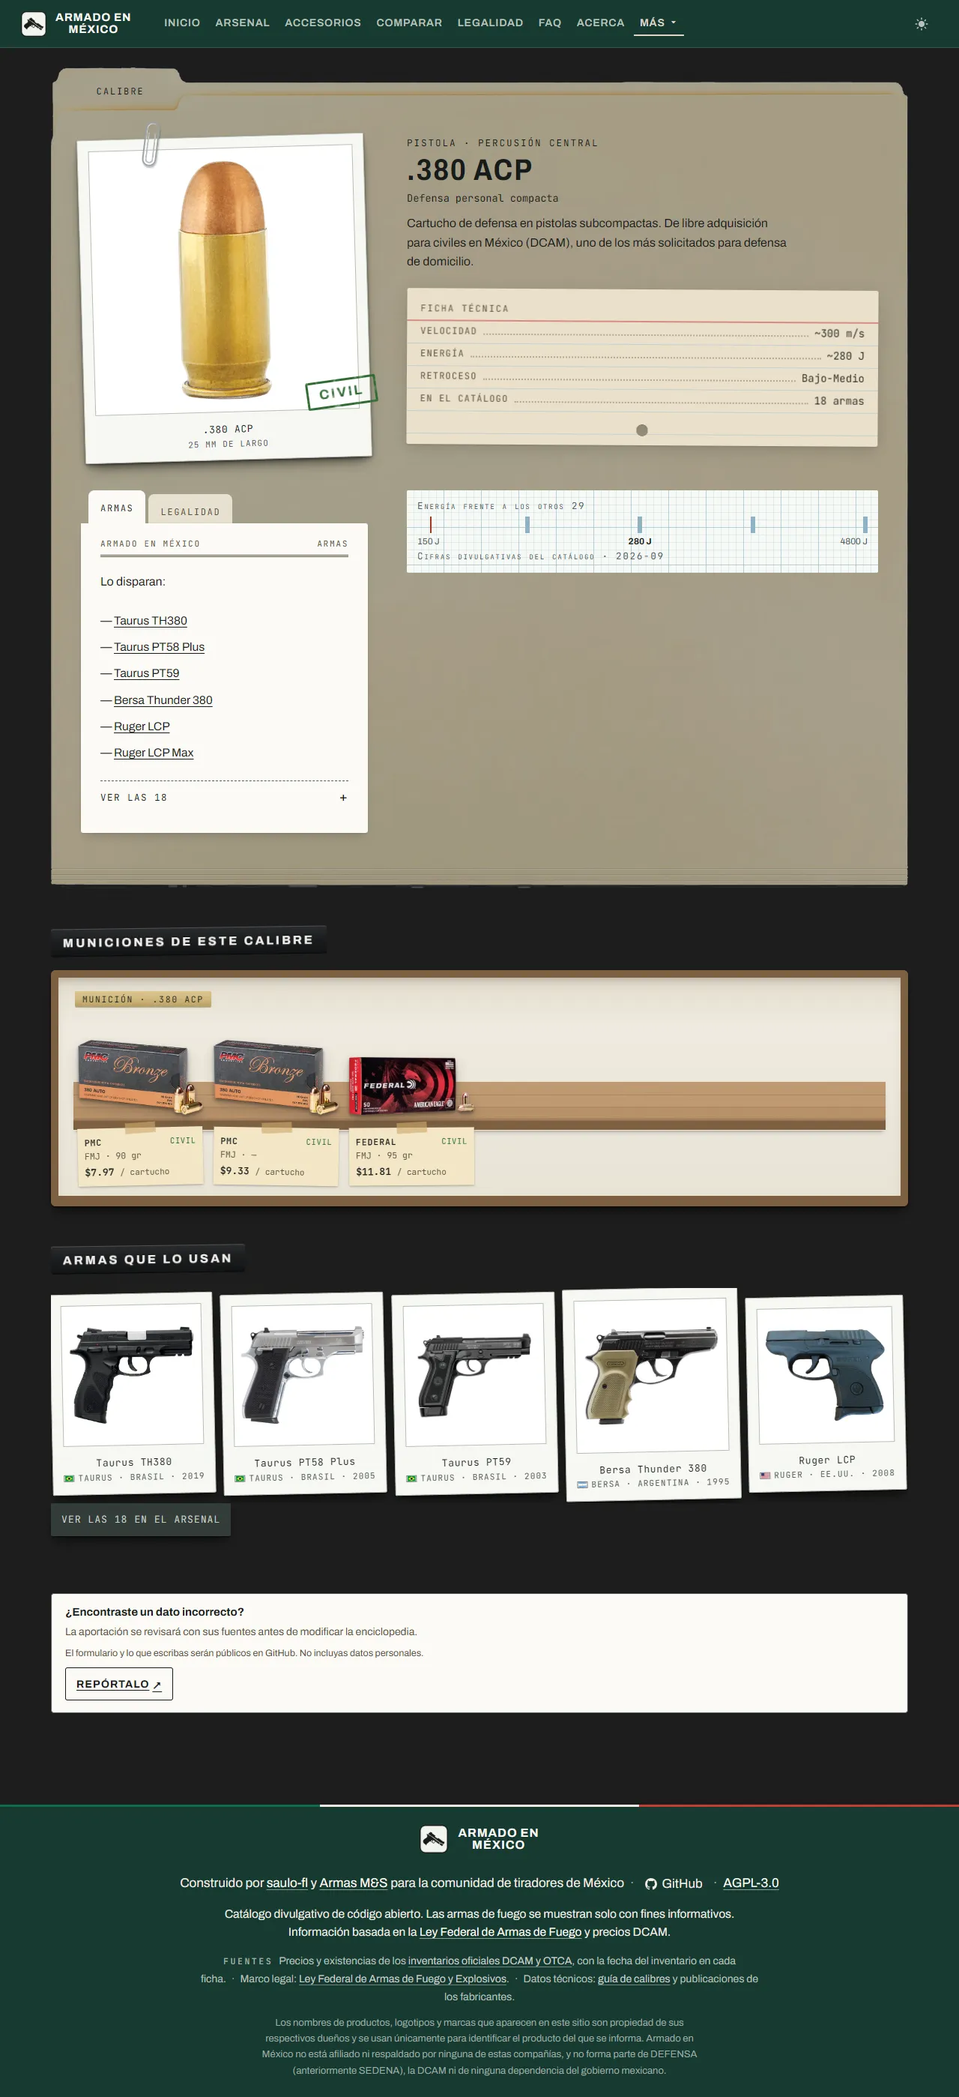
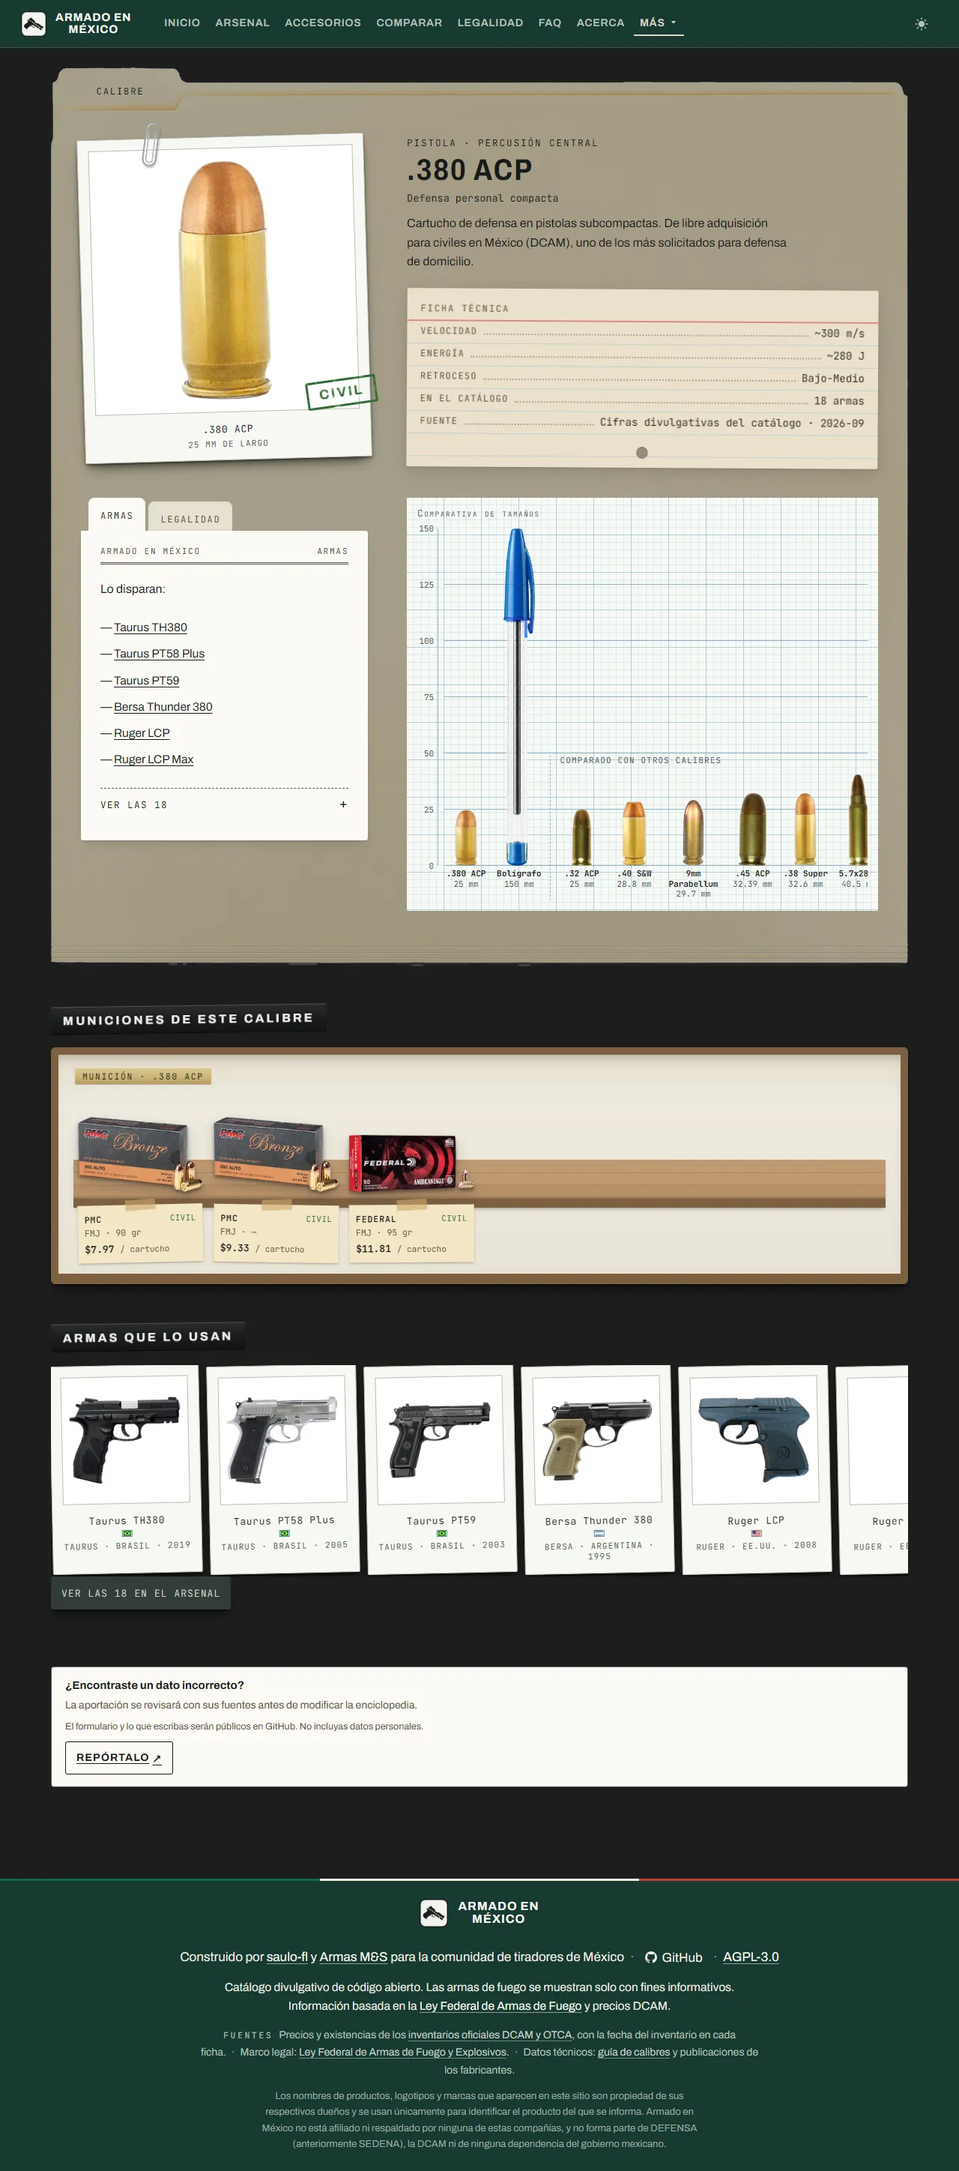
feat(calibres): comparativa de tamaños con un bolígrafo de 15 cm (correcciones de Penpot)
Correcciones de Saulo en Penpot («11 Ficha de calibre», hilos #14-#17):

- El papel milimétrico deja la regla de energía («no se entiende bien») y
  pasa a una comparativa de tamaños: eje Y en mm, el cartucho a escala real
  y un bolígrafo de 15 cm (generado sin marca, aprobado por Saulo). También
  en las escopetas.
- En escritorio llena la columna derecha y suma «Comparado con otros
  calibres»: los de su rama (carabina con rifle); el .22 LR con 9mm
  Parabellum, .38 Special y .308 Winchester; el .22 WMR con el .22 LR
  (amxComparadosDe, con pruebas).
- La fuente de las cifras pasa a un renglón al pie de la ficha técnica.
- Polaroids de «Armas que lo usan» del mismo tamaño y alineadas.

Se retiran ReglaComparativa y su CSS (menos .amx-regla y .amx-regla-cursor,
que también usa el filtro de precio). Capturas de Penpot al día.

Verificado: sonda de 30 fichas × 3 vistas sin fallos (escala ±1 px, mismo
cero, polaroids iguales, contraste mínimo 5.92:1); npm test 201/202 (el
fallo es el de _redirects en CRLF).

diff --git a/src/styles/estilo.css b/src/styles/estilo.css
@@ -1757,8 +1757,7 @@
 
 /* LA FICHA DE CALIBRE (27-sep-2026, DESIGN.md §5.12): el mismo folder sin talón
    ni tarjeta de almacén. Desde 1024, copia | cabecera y ficha; debajo, hojas |
-   milimétrico. Las escopetas no llevan milimétrico y sus hojas se quedan en su
-   columna (Saulo). */
+   milimétrico. Las hojas de las escopetas también se quedan en su columna (Saulo). */
 @media (min-width: 1024px) {
   .amx-v2 .amx-carpeta--calibre .amx-carpeta-grid {
     grid-template-areas:
@@ -1776,18 +1775,55 @@
 .amx-v2 .amx-carpeta-uso { margin-top: 6px; font-family: var(--mono); font-size: 13.5px; color: var(--manila-tinta); }
 .amx-v2 .amx-carpeta-alias { margin-top: 4px; font-size: 14px; color: var(--manila-tinta-2); }
 .amx-v2 .amx-carpeta-art { font-family: var(--mono); font-size: 12.5px; letter-spacing: .06em; color: var(--oficio-tinta-2); }
-/* La regla de energía, sobre el milimétrico: tintas del papel, que no siguen al
-   tema. Acotado a .amx-milimetrico porque .amx-regla la comparte el filtro de precio. */
-.amx-v2 .amx-milimetrico .amx-regla-titulo,
-.amx-v2 .amx-milimetrico .amx-regla-pies,
-.amx-v2 .amx-milimetrico .amx-regla-fuente { color: var(--milimetrico-tinta-2); }
-.amx-v2 .amx-milimetrico .amx-regla-pies b { color: var(--manila-tinta); }
-.amx-v2 .amx-milimetrico .amx-regla-pista {
-  background: repeating-linear-gradient(90deg, transparent, transparent 24%,
-    var(--milimetrico-linea) 24%, var(--milimetrico-linea) 25%);
+/* LA COMPARATIVA DE TAMAÑOS (Saulo en Penpot, 27-sep-2026): sustituye a la regla de
+   energía. El cartucho y un bolígrafo de 15 cm sobre un eje en milímetros: `--mm` son
+   los píxeles de un milímetro (2 en móvil, 3 en escritorio) y `--pie` el alto fijo de
+   los pies, para que todas las fotos se apoyen en el cero. En escritorio llena la
+   columna derecha. Tintas del milimétrico: el papel no sigue al tema. */
+.amx-v2 .amx-carpeta--calibre .amx-carpeta-historial { align-self: stretch; }
+.amx-v2 .amx-carpeta--calibre .amx-milimetrico { height: 100%; box-sizing: border-box; }
+.amx-v2 .amx-tamanos { --pie: 46px; }
+.amx-v2 .amx-tamanos-titulo {
+  margin-bottom: var(--e3);
+  font-family: var(--mono); font-size: 12.5px; letter-spacing: .14em; font-variant: small-caps;
+  color: var(--milimetrico-tinta-2);
 }
-.amx-v2 .amx-milimetrico .amx-regla-cursor { background: var(--sello-restr); }
-.amx-v2 .amx-milimetrico .amx-regla { height: auto; }
+.amx-v2 .amx-tamanos-lienzo { display: flex; align-items: flex-end; gap: 8px; }
+.amx-v2 .amx-tamanos-eje {
+  position: relative; flex: none; width: 28px;
+  height: calc(150 * var(--mm)); margin-bottom: var(--pie);
+  border-right: 1px solid var(--milimetrico-linea);
+  font-family: var(--mono); font-size: 11px; color: var(--milimetrico-tinta-2);
+}
+.amx-v2 .amx-tamanos-eje span { position: absolute; right: 5px; transform: translateY(50%); }
+.amx-v2 .amx-tamanos-fila {
+  flex: 1; min-width: 0; overflow-x: auto;
+  display: flex; align-items: flex-end; gap: 12px;
+  background-image: repeating-linear-gradient(to top, var(--milimetrico-linea) 0 1px, transparent 1px calc(25 * var(--mm)));
+  background-size: 100% calc(150 * var(--mm) + 1px);
+  background-position: left 0 bottom var(--pie);
+  background-repeat: no-repeat;
+}
+.amx-v2 .amx-tamanos-pieza { flex: none; margin: 0; display: flex; flex-direction: column; align-items: center; min-width: 58px; }
+.amx-v2 .amx-tamanos-pieza img { display: block; width: auto; }
+.amx-v2 .amx-tamanos-pieza figcaption {
+  height: var(--pie); max-width: 76px; padding-top: 4px; box-sizing: border-box; text-align: center;
+  font-family: var(--mono); font-size: 11px; line-height: 1.25; color: var(--milimetrico-tinta-2);
+}
+.amx-v2 .amx-tamanos-pieza figcaption b { display: block; font-weight: 700; color: var(--manila-tinta); }
+.amx-v2 .amx-tamanos-otros {
+  flex: none; display: flex; flex-direction: column; gap: var(--e3);
+  padding-left: 12px; border-left: 1px dashed var(--milimetrico-linea);
+}
+.amx-v2 .amx-tamanos-otros-tit {
+  font-family: var(--mono); font-size: 11px; letter-spacing: .1em; text-transform: uppercase;
+  color: var(--milimetrico-tinta-2);
+}
+.amx-v2 .amx-tamanos-otros-fila { display: flex; align-items: flex-end; gap: 12px; }
+/* «Armas que lo usan»: todas las copias del mismo ancho y alto, alineadas; el giro de
+   siempre (-1.2°) queda dentro de los ±2° que admite Saulo (27-sep-2026). */
+.amx-v2 .amx-calficha-arma { width: 200px; align-self: stretch; }
+.amx-v2 .amx-calficha-arma .amx-polaroid { height: 100%; box-sizing: border-box; }
 
 .amx-v2 .amx-carpeta-cab h1 {
   margin: 0;
@@ -5794,30 +5830,11 @@
   color: var(--sello-civil);
 }
 
-/* ── Regla comparativa — regla graduada que enseña dónde cae un calibre ── */
+/* ── Resto de la regla comparativa de calibres (retirada el 27-sep-2026): `.amx-regla` y
+   `.amx-regla-cursor` también las usa el filtro de precio (ReglaPrecio), así que se quedan. ── */
 
 .amx-v2 .amx-regla {
   font-variant-numeric: tabular-nums;
-}
-.amx-v2 .amx-regla-titulo {
-  font-family: var(--mono);
-  font-size: 12.5px;
-  font-variant-numeric: tabular-nums;
-  font-variant: small-caps;
-  letter-spacing: 0.14em;
-  color: var(--carton-tinta-2);
-  margin-bottom: 6px;
-}
-.amx-v2 .amx-regla-pista {
-  height: 22px;
-  position: relative;
-  background: repeating-linear-gradient(90deg,
-    transparent,
-    transparent 24%,
-    var(--hair) 24%,
-    var(--hair) 25%
-  );
-  border: 0;
 }
 .amx-v2 .amx-regla-cursor {
   position: absolute;
@@ -5826,25 +5843,6 @@
   width: 2px;
   height: 22px;
   background: var(--acento);
-}
-.amx-v2 .amx-regla-pies {
-  display: flex;
-  justify-content: space-between;
-  font-variant-numeric: tabular-nums;
-  font-size: 12px;
-  color: var(--carton-tinta-2);
-  margin-top: 4px;
-}
-.amx-v2 .amx-regla-pies b {
-  color: var(--tinta);
-}
-.amx-v2 .amx-regla-fuente {
-  font-family: var(--mono);
-  font-size: 12.5px;
-  font-variant: small-caps;
-  letter-spacing: 0.14em;
-  color: var(--carton-tinta-2);
-  margin-top: 4px;
 }
 
 /* ══════════════════════════════════════════════════════════════════════════

diff --git a/src/screens/screens-3.jsx b/src/screens/screens-3.jsx
@@ -163,6 +163,50 @@ const CARTUCHO_MAX_MM = 84.8;          // .30-06 / .270 / 7mm Rem / .300 WM
 const CARTUCHO_HOME_MAXH = 120;
 
 // ═══════════════════════════════════════════════════════════════════════
+// COMPARATIVA DE TAMAÑOS — el papel milimétrico de la ficha de calibre
+// Sustituye a la regla de energía (Saulo en Penpot, 27-sep-2026): el cartucho a
+// su tamaño real sobre un eje en milímetros, junto a un bolígrafo de 15 cm que
+// todo el mundo conoce. En escritorio se suman los calibres de su rama
+// (amxComparadosDe). `mmPx` son los píxeles de un milímetro. Las fotos vienen
+// recortadas al borde (margen < 2 %): su alto es el largo real del cartucho.
+// ═══════════════════════════════════════════════════════════════════════
+const BOLIGRAFO = { id: 'Bolígrafo', mm: 150, foto: 'imagenes/boligrafo-15cm.webp' };
+const MARCAS_MM = [0, 25, 50, 75, 100, 125, 150];
+
+function TablaTamanos({ cal, comparados, mmPx }) {
+  const pieza = (p, clase) => (
+    <figure key={p.id} className={'amx-tamanos-pieza' + (clase ? ' ' + clase : '')}>
+      <img src={p.foto} alt="" style={{ height: p.mm * mmPx }} loading="lazy" />
+      <figcaption><b>{p.id}</b>{p.mm} mm</figcaption>
+    </figure>
+  );
+  const describe = (c) => c.id + ', ' + c.mm + ' mm';
+  const etiqueta = 'Comparativa de tamaños: ' + describe(cal) + '; bolígrafo, 150 mm'
+    + (comparados.length ? '. Otros calibres de su rama: ' + comparados.map(describe).join('; ') : '') + '.';
+  return (
+    <div className="amx-tamanos" style={{ '--mm': mmPx + 'px' }} role="img" aria-label={etiqueta}>
+      <div className="amx-tamanos-titulo">Comparativa de tamaños</div>
+      <div className="amx-tamanos-lienzo">
+        <div className="amx-tamanos-eje" aria-hidden="true">
+          {MARCAS_MM.map((m) => <span key={m} style={{ bottom: m * mmPx }}>{m}</span>)}
+        </div>
+        <div className="amx-tamanos-fila">
+          {pieza({ id: cal.id, mm: cal.mm, foto: cal.cartucho }, 'es-ficha')}
+          {pieza(BOLIGRAFO)}
+          {comparados.length > 0 &&
+            <div className="amx-tamanos-otros">
+              <div className="amx-tamanos-otros-tit">Comparado con otros calibres</div>
+              <div className="amx-tamanos-otros-fila">
+                {comparados.map((c) => pieza({ id: c.id, mm: c.mm, foto: c.cartucho }))}
+              </div>
+            </div>}
+        </div>
+      </div>
+    </div>
+  );
+}
+
+// ═══════════════════════════════════════════════════════════════════════
 // FICHA DE UN CALIBRE — /calibres/<slug>
 // El mismo expediente que las fichas de arma, accesorio y munición (DESIGN.md
 // §5.12, decidido con Saulo el 27-sep-2026). Sin talón ni tarjeta de almacén:
@@ -176,7 +220,6 @@ function CalibreScreen({ calibreId, onOpenArma, onOpenMunicion, onNav }) {
   React.useEffect(() => { setTab(0); }, [calibreId]);
   const guia = useMemo3(() => window.amxGuiaCalibres(window.CALIBRES || [], window.DB || []), []);
   const cal = guia.find((c) => c.id === calibreId);
-  const rango = useMemo3(() => window.amxRangoCalibres(guia), [guia]);
 
   // Un solo corte, el del expediente: 1024px (DESIGN.md §5.5).
   const ancho = vp.width >= 1024;
@@ -196,7 +239,7 @@ function CalibreScreen({ calibreId, onOpenArma, onOpenMunicion, onNav }) {
   const visibles = armas.slice(0, 6);
   const municiones = (window.MUNICIONES || []).filter((m) => window.amxMismoCalibre(m.calibre, cal.id));
   const sello = (window.SELLOS_LEGALES || {})[cal.avail];
-  const conEnergia = typeof cal.energiaJ === 'number' && rango.energia.max > 0;
+  const comparados = ancho ? window.amxComparadosDe(cal, guia) : [];
   // La copia: la foto del cartucho y, al pie, su nombre y su largo (Saulo).
   const copia = { id: cal.id, nombre: cal.id, img: cal.cartucho, marca: cal.mm ? cal.mm + ' mm de largo' : '' };
   const silueta = { forma: 'imagenes/cartuchos/silueta-vertical.webp', nombre: 'cartucho' };
@@ -205,7 +248,7 @@ function CalibreScreen({ calibreId, onOpenArma, onOpenMunicion, onNav }) {
     ['Energía', cal.energia],
     ['Retroceso', cal.retroceso],
     ['En el catálogo', armas.length === 0 ? 'No se vende en DCAM' : armas.length + (armas.length === 1 ? ' arma' : ' armas')],
-  ];
+  ].concat(cal.fuente ? [['Fuente', cal.fuente.nombre + ' · ' + cal.fuente.fecha]] : []);
 
   return (
     <div style={{ paddingBottom: 90 }}>
@@ -240,16 +283,13 @@ function CalibreScreen({ calibreId, onOpenArma, onOpenMunicion, onNav }) {
               <window.FichaTecnica arma={{ nombre: cal.id }} filas={filas} />
             </div>
 
-            {/* En el móvil el milimétrico va antes que las hojas (Saulo). Las escopetas
-                no lo llevan: su energía no se compara con la de una bala. */}
-            {conEnergia &&
-              <div className="amx-carpeta-historial">
-                <div className="amx-milimetrico">
-                  <window.ReglaComparativa titulo="Energía frente a los otros 29"
-                    valor={cal.energiaJ} min={rango.energia.min} max={rango.energia.max}
-                    unidad="J" fuente={cal.fuente} />
-                </div>
-              </div>}
+            {/* La comparativa de tamaños (Saulo, 27-sep-2026), también en escopetas. En el
+                móvil va antes que las hojas; en escritorio ocupa la columna derecha. */}
+            <div className="amx-carpeta-historial">
+              <div className="amx-milimetrico">
+                <TablaTamanos cal={cal} comparados={comparados} mmPx={ancho ? 3 : 2} />
+              </div>
+            </div>
 
             <div className="amx-carpeta-legal amx-separadores">
               <window.FichaTabs activo={tab} onCambiar={setTab}>

diff --git a/src/components/ui.jsx b/src/components/ui.jsx
@@ -3592,29 +3592,6 @@ function TiraFiltros({ uid, orden, mas = [], filtros, valores, onCambiar, precio
 }
 window.TiraFiltros = TiraFiltros;
 
-// ──────────────────────────────────────────────────────────────
-// REGLA COMPARATIVA — regla graduada que enseña dónde cae un
-// calibre dentro del rango de todos los demás
-// ──────────────────────────────────────────────────────────────
-function ReglaComparativa({ titulo, valor, min, max, unidad, fuente }) {
-  const pos = window.amxPosicionEnRango(valor, min, max);
-  const etiqueta = `${valor} ${unidad}. En esta guía el mínimo es ${min} y el máximo ${max}.`;
-  return (
-    <div className="amx-regla" style={{ '--pos': pos }}>
-      <div className="amx-regla-titulo">{titulo}</div>
-      <div className="amx-regla-pista" role="img" aria-label={etiqueta}>
-        <span className="amx-regla-cursor" />
-      </div>
-      <div className="amx-regla-pies">
-        <span>{min} {unidad}</span>
-        <b>{valor} {unidad}</b>
-        <span>{max} {unidad}</span>
-      </div>
-      {fuente ? <div className="amx-regla-fuente">{fuente.nombre} · {fuente.fecha}</div> : null}
-    </div>
-  );
-}
-window.ReglaComparativa = ReglaComparativa;
 
 // ══════════════════════════════════════════════════════════════
 // REPORTAR ERROR — enlace público a GitHub para correcciones factuales

diff --git a/src/lib/calibres.js b/src/lib/calibres.js
@@ -30,6 +30,25 @@
   }
 
   /**
+   * Calibres con los que se compara uno en su ficha (Saulo, 27-sep-2026): los de su
+   * misma rama —carabina y rifle son una sola, la de armas largas—, de menor a mayor.
+   * El .22 LR, que es de pistola, revólver y rifle, se compara con el más común de cada
+   * una en el catálogo; el .22 WMR, solo con el .22 LR.
+   * ponytail: las excepciones son una tabla fija; un calibre anular nuevo va aquí.
+   * @param {Object} cal — calibre de la guía ({ id, clase, mm }).
+   * @param {Array} guia — la guía completa.
+   * @returns {Array} calibres de la guía, sin el propio.
+   */
+  function amxComparadosDe(cal, guia) {
+    var FIJOS = { '.22 LR': ['9mm Parabellum', '.38 Special', '.308 Winchester'], '.22 WMR': ['.22 LR'] };
+    var rama = function (clase) { return clase === 'Carabina' ? 'Rifle' : clase; };
+    var lista = FIJOS[cal.id]
+      ? guia.filter(function (c) { return FIJOS[cal.id].indexOf(c.id) >= 0; })
+      : guia.filter(function (c) { return c.id !== cal.id && rama(c.clase) === rama(cal.clase); });
+    return lista.slice().sort(function (a, b) { return (a.mm || 0) - (b.mm || 0); });
+  }
+
+  /**
    * Enriched y ordena la guía de calibres.
    * A cada calibre le agrega:
    *   - armas: cuántas entradas de db tienen a.calibre === c.id
@@ -179,4 +198,5 @@
   window.amxCalibrePorSlug = amxCalibrePorSlug;
   window.amxFiltrarCalibres = amxFiltrarCalibres;
   window.amxMismoCalibre = amxMismoCalibre;
+  window.amxComparadosDe = amxComparadosDe;
 })();

diff --git a/docs/DESIGN.md b/docs/DESIGN.md
@@ -1299,14 +1299,17 @@ cruce de munición en `amxMismoCalibre` (`src/lib/calibres.js`, con prueba); pri
 - **La copia** es la foto del cartucho; al pie, su nombre y su largo («25 mm de largo»). Sello legal estampado;
   los calibres sin clasificación fijada (.357 Magnum, .45 ACP, 5.7x28mm) van **sin sello**. La regla del
   cartucho de la ficha anterior se retiró: la foto y el largo al pie la sustituyen.
-- **Ficha técnica:** Velocidad, Energía, Retroceso y En el catálogo.
-- **Papel milimétrico:** solo «Energía frente a los otros 29», con su fuente. Las escopetas (.410, 12, 16 y
-  20 GA) no lo llevan.
+- **Ficha técnica:** Velocidad, Energía, Retroceso, En el catálogo y, al pie, la fuente de las cifras.
+- **Papel milimétrico: comparativa de tamaños** (corrección de Saulo en Penpot, 27-sep-2026; sustituye a la regla
+  de energía, que no se entendía). Eje Y en milímetros; el cartucho a tamaño real y un bolígrafo de 15 cm
+  (`imagenes/boligrafo-15cm.webp`, generado sin marca). En escritorio suma «Comparado con otros calibres»: los de
+  su rama (carabina y rifle juntas); el .22 LR, con 9mm Parabellum, .38 Special y .308 Winchester; el .22 WMR, con
+  el .22 LR (`amxComparadosDe`). También en las escopetas.
 - **Hojas: Armas · Legalidad**, abre en Armas («Lo disparan:», 6 enlaces y «Ver las N»); sin armas, no hay hoja.
 - **Móvil:** cabecera → copia → ficha técnica → milimétrico → hojas. **Escritorio:** copia | cabecera y ficha;
-  debajo, hojas | milimétrico; en las escopetas las hojas se quedan en su columna.
+  debajo, hojas | milimétrico, que llena la columna derecha.
 - **Debajo del folder:** Municiones de este calibre (la vitrina de §5.11, compartida en `VitrinaMuniciones`)
-  → Armas que lo usan (polaroids, 6 y «Ver las N en el Arsenal») → «¿Encontraste un dato incorrecto?».
+  → Armas que lo usan (polaroids iguales y alineadas; 6 y «Ver las N en el Arsenal») → «¿Encontraste un dato incorrecto?».
 
 ---
 

diff --git a/docs/superpowers/specs/2026-09-28-ficha-calibre-design.md b/docs/superpowers/specs/2026-09-28-ficha-calibre-design.md
@@ -40,3 +40,19 @@ accesorio y munición (DESIGN.md §5.5, §5.8, §5.11). El índice `/calibres` n
 
 El índice `/calibres`, el GIF de calibres del README (recorre solo el índice), las 7 decisiones legales
 pendientes de la guía y el texto legal de cada calibre (salvo lo que Saulo apruebe aparte).
+
+## Correcciones de Saulo en Penpot (27-sep-2026)
+
+Página «11 Ficha de calibre» del archivo «Wire Frame», hilos #14-#17, y sus respuestas en el chat. Sustituyen a las
+filas «Papel milimétrico» y «Escopetas» de la tabla de arriba.
+
+| Hilo | Corrección |
+|---|---|
+| #14 | La regla de energía se sustituye por una **comparativa de tamaños**: eje Y en mm, el calibre y un bolígrafo de 15 cm. También en las escopetas. |
+| #15 | En escritorio llena la columna derecha y suma «Comparado con otros calibres», solo de su rama; el .22 LR, uno de cada rama. |
+| #16 | Polaroids de «Armas que lo usan» sin jitter: del mismo tamaño y alineadas; giro máximo ±2°. |
+| #17 | Escopetas: el de la ficha, el bolígrafo y luego las demás escopetas. |
+
+Respuestas: bolígrafo generado con IA y aprobado; carabina y rifle son una rama; el .22 LR se compara con 9mm
+Parabellum, .38 Special y .308 Winchester; el .22 WMR, solo con el .22 LR; la regla de energía se retira («no se
+entiende bien»); la fuente de las cifras pasa a un renglón al pie de la ficha técnica.

diff --git a/README.md b/README.md
@@ -116,8 +116,8 @@ Treinta cartuchos: qué son, qué tan fuerte pega cada uno y cuáles puede compr
 México. La vitrina los pone **a su tamaño real, de menor a mayor**, y un filtro separa los de uso
 civil, por tipo de arma y Rimfire de percusión central. Cada calibre tiene su ficha, en el mismo
 folder que las armas: sistema, uso típico, velocidad y energía aproximadas, retroceso, su
-clasificación legal, las armas del catálogo que lo usan y las municiones de ese calibre en el
-inventario oficial.
+clasificación legal, su tamaño real junto a un bolígrafo de 15 cm, las armas del catálogo que lo
+usan y las municiones de ese calibre en el inventario oficial.
 
 Sirve para elegir el calibre antes que el arma. Las cifras son divulgativas —de una carga
 comercial corriente— y cada ficha dice de dónde salen.
